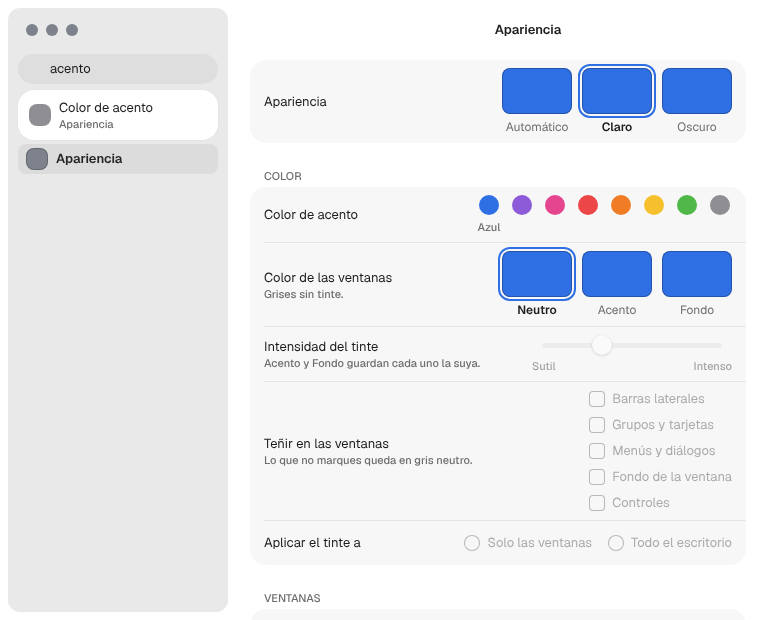
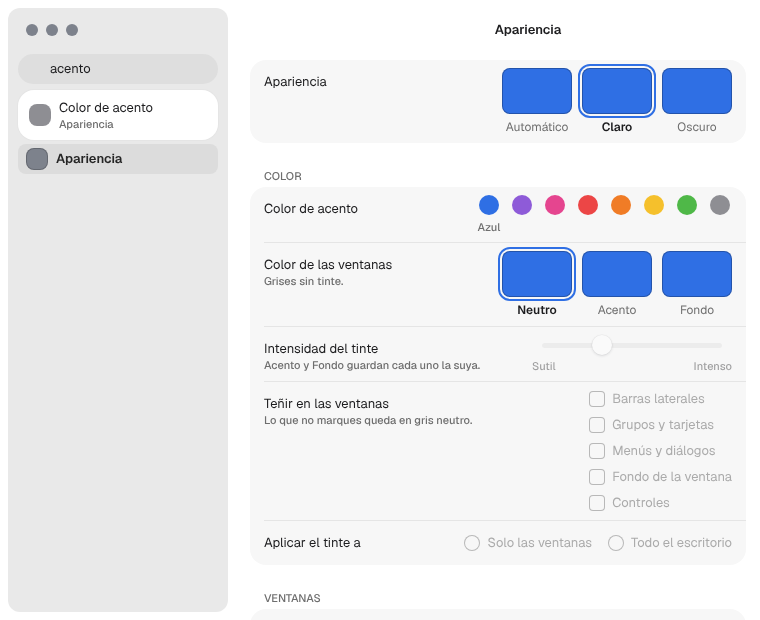
build(kit): sube barrierkit a f0b04ec y alinea el mockup de Ajustes
- Las filas del Form parten el texto largo y alinean el control a la
  primera línea del título; el mockup sigue la misma regla y su
  layout.json está regenerado.
- El menú de los pop-ups abre con la opción marcada sobre el botón.

Claude-Session: https://claude.ai/code/session_01F89v1tsx63Ncce7GVPXu9u

diff --git a/docs/mockups/ajustes-del-sistema/apariencia.html b/docs/mockups/ajustes-del-sistema/apariencia.html
@@ -65,9 +65,9 @@ span,b,small{display:block;white-space:nowrap}
 .hdr{display:flex;padding:var(--list-group-section-header-padding);color:var(--list-group-section-header-color)}
 .card{border-radius:var(--list-group-radius);background:var(--list-group-bg);box-shadow:inset 0 0 0 1px var(--card-border);overflow:hidden}
 .sep{height:1px;margin-left:var(--list-group-separator-inset-left);background:var(--list-group-separator-color)}
-.row{display:flex;align-items:center;gap:var(--space-3);min-height:var(--list-group-row-min-height);padding:var(--space-2) var(--list-group-row-padding-x)}
-.row .lbl{display:flex;flex-direction:column;align-items:flex-start}
-.row .acc{flex:1;display:flex;justify-content:flex-end;align-items:center}
+.row{display:flex;align-items:flex-start;gap:var(--space-3);min-height:var(--list-group-row-min-height);padding:var(--space-2) var(--list-group-row-padding-x);--first-line:calc(var(--list-group-row-min-height) - 2 * var(--space-2))}
+.row .lbl{flex:1;display:flex;flex-direction:column;padding-top:calc((var(--first-line) - var(--type-body-line-height)) / 2)}
+.row .acc{display:flex;align-items:center;min-height:var(--first-line)}
 .row small{color:var(--ink-muted)}
 
 /* ChoiceCards */
